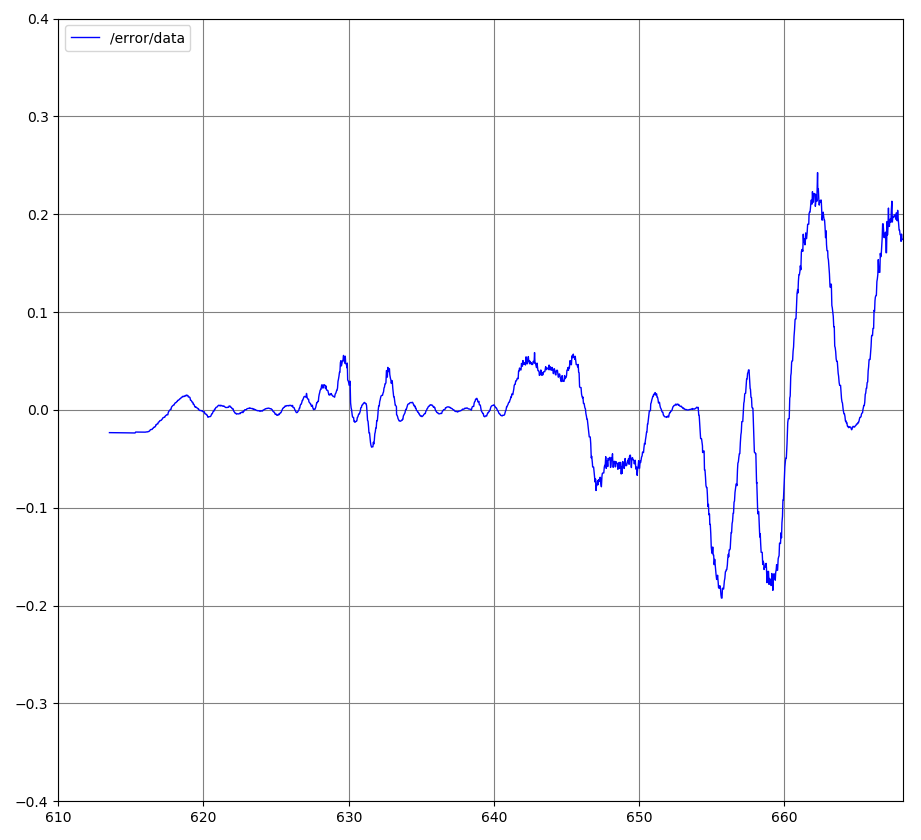
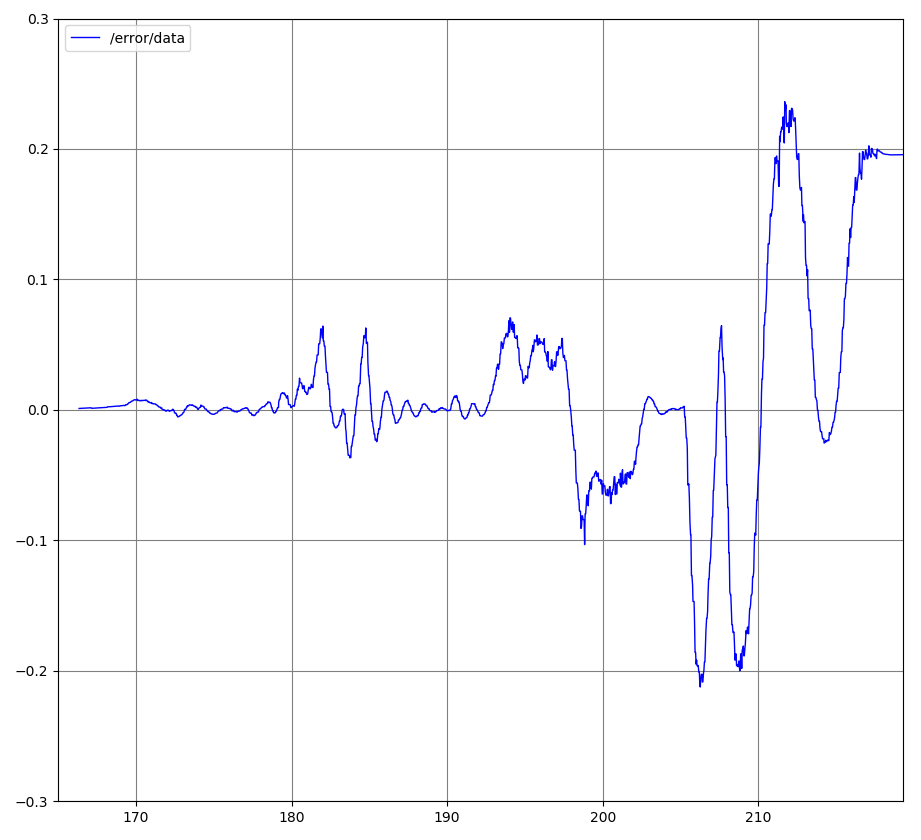
mod pid gain value

diff --git a/catkin_ws/src/step_2/scripts/3.1_ctrl_cmd_pub_0.1.py b/catkin_ws/src/step_2/scripts/3.1_ctrl_cmd_pub_0.1.py
@@ -1,10 +1,6 @@
 #!/usr/bin/env python
 # -*- coding: utf-8 -*-
 
-'''
-pid p_gain 값을 1 ~ 2까지 0.1 간격으로 늘리면서 오차(target_steering를 출력한다. (실제 steering_output과는 다름)
-'''
-
 # import ros, math, msg
 import rospy
 import rospkg
@@ -28,7 +24,6 @@ class ctrl_cmd_pub:
         rospy.Subscriber("/odom", Odometry, self.odom_callback)
         rospy.Subscriber("/Ego_topic", EgoVehicleStatus, self.status_callback)
         self.ctrl_cmd_pub = rospy.Publisher('/ctrl_cmd', CtrlCmd, queue_size=1)
-        self.error_pub = rospy.Publisher('/error', Float32, queue_size=1)
         
         # 데이터 유무 플래그
         self.is_path = False
@@ -40,7 +35,6 @@ class ctrl_cmd_pub:
         # 발행 메시지 변수 선언
         self.ctrl_cmd_msg = CtrlCmd()
         self.ctrl_cmd_msg.longlCmdType = 1
-        self.error_msg = Float32()
         
         # 물리 변수 선언
         self.max_velocity = 100.0 / 3.6
@@ -48,9 +42,9 @@ class ctrl_cmd_pub:
         
         self.r = float('inf')
         self.vehicle_length = 2.984
-        self.lfd = 10
-        self.min_lfd=5
-        self.max_lfd=30
+        self.lfd = 10.0
+        self.min_lfd = 5.0
+        self.max_lfd = 30.0
         self.lfd_gain = 1.0
         
         # p_gain, i_gain, d_gain 을 변수로 선언할 수 있음
@@ -60,14 +54,13 @@ class ctrl_cmd_pub:
         self.target_steering = 0.0
         self.target_velocity = 100 / 3.6
 
-
         rate = rospy.Rate(30)
+        
+
         while not rospy.is_shutdown():
             if self.is_path is True and self.is_odom is True and self.is_status is True and self.is_velocity is True: # 메시지 수신 확인
                 
                 self.target_steering = self.find_target_steering()
-                self.error_msg.data = self.target_steering
-                self.error_pub.publish(self.error_msg)
                 
                 velocity_output = self.velocity_pid.output(self.target_velocity, self.status_msg.velocity.x)
                 steering_output = self.steering_pid.output(self.target_steering, 0.0)
@@ -110,12 +103,12 @@ class ctrl_cmd_pub:
     
     def find_target_steering(self):
 
-        # self.lfd = (self.status_msg.velocity.x) * self.lfd_gain
+        self.lfd = (self.status_msg.velocity.x) * self.lfd_gain
         
-        # if self.lfd < self.min_lfd : 
-        #     self.lfd = self.min_lfd
-        # elif self.lfd > self.max_lfd :
-        #     self.lfd=self.max_lfd
+        if self.lfd < self.min_lfd : 
+            self.lfd = self.min_lfd
+        elif self.lfd > self.max_lfd :
+            self.lfd=self.max_lfd
         
         translation = [self.current_position.x, self.current_position.y]
         
